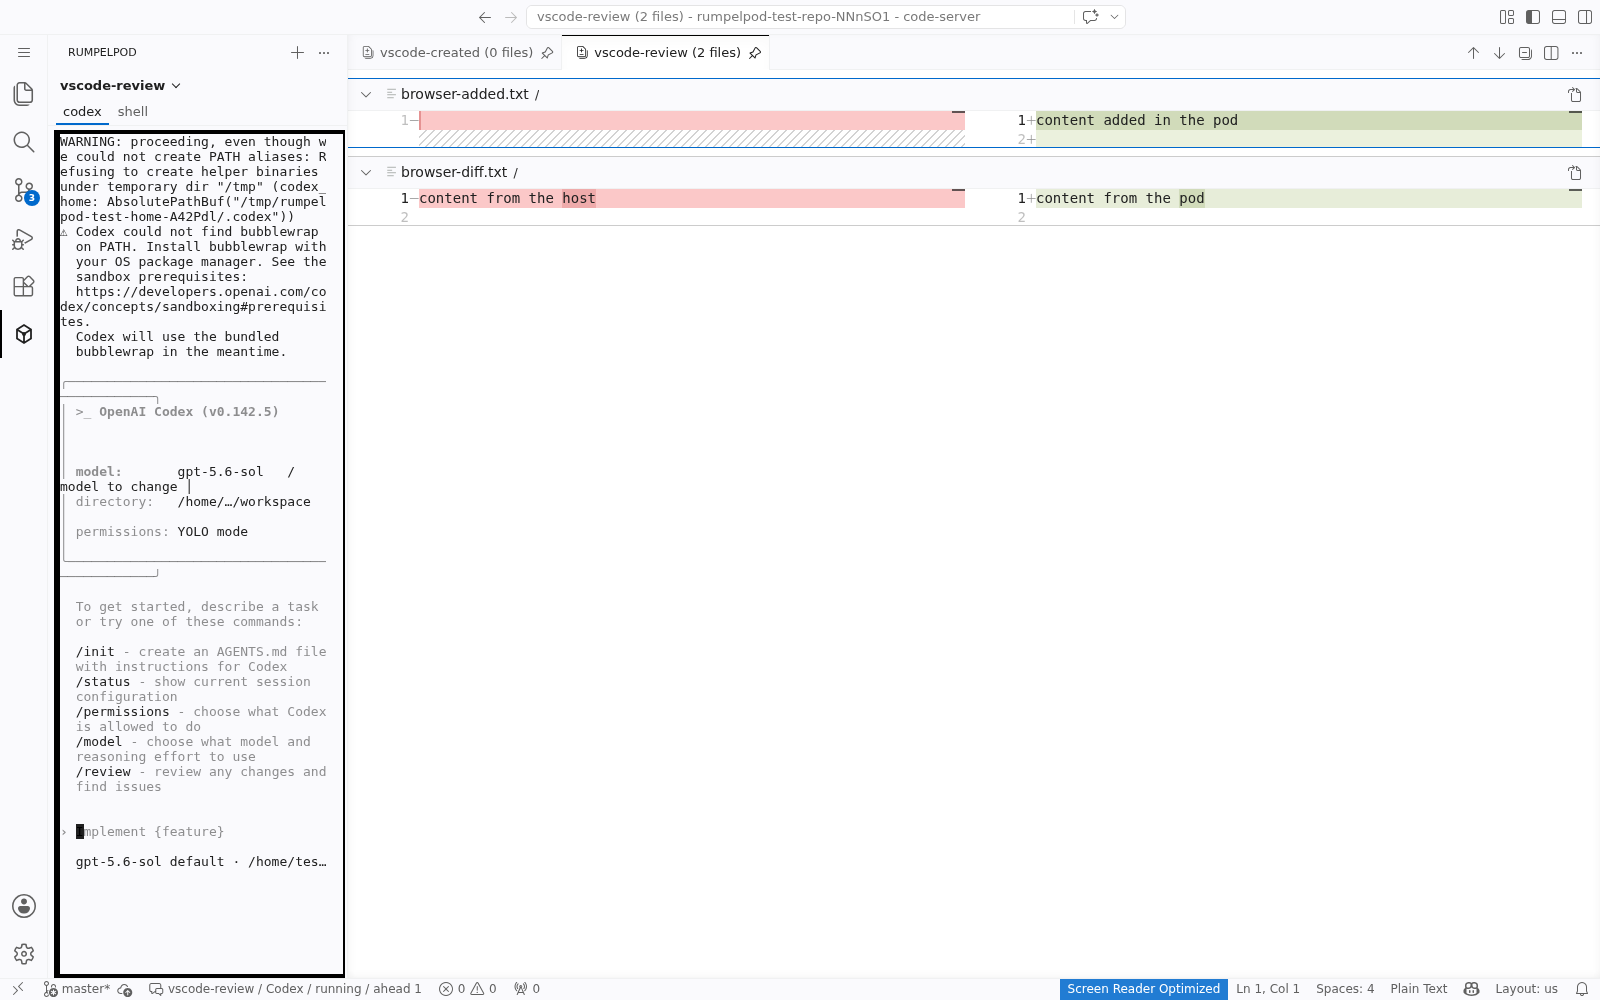
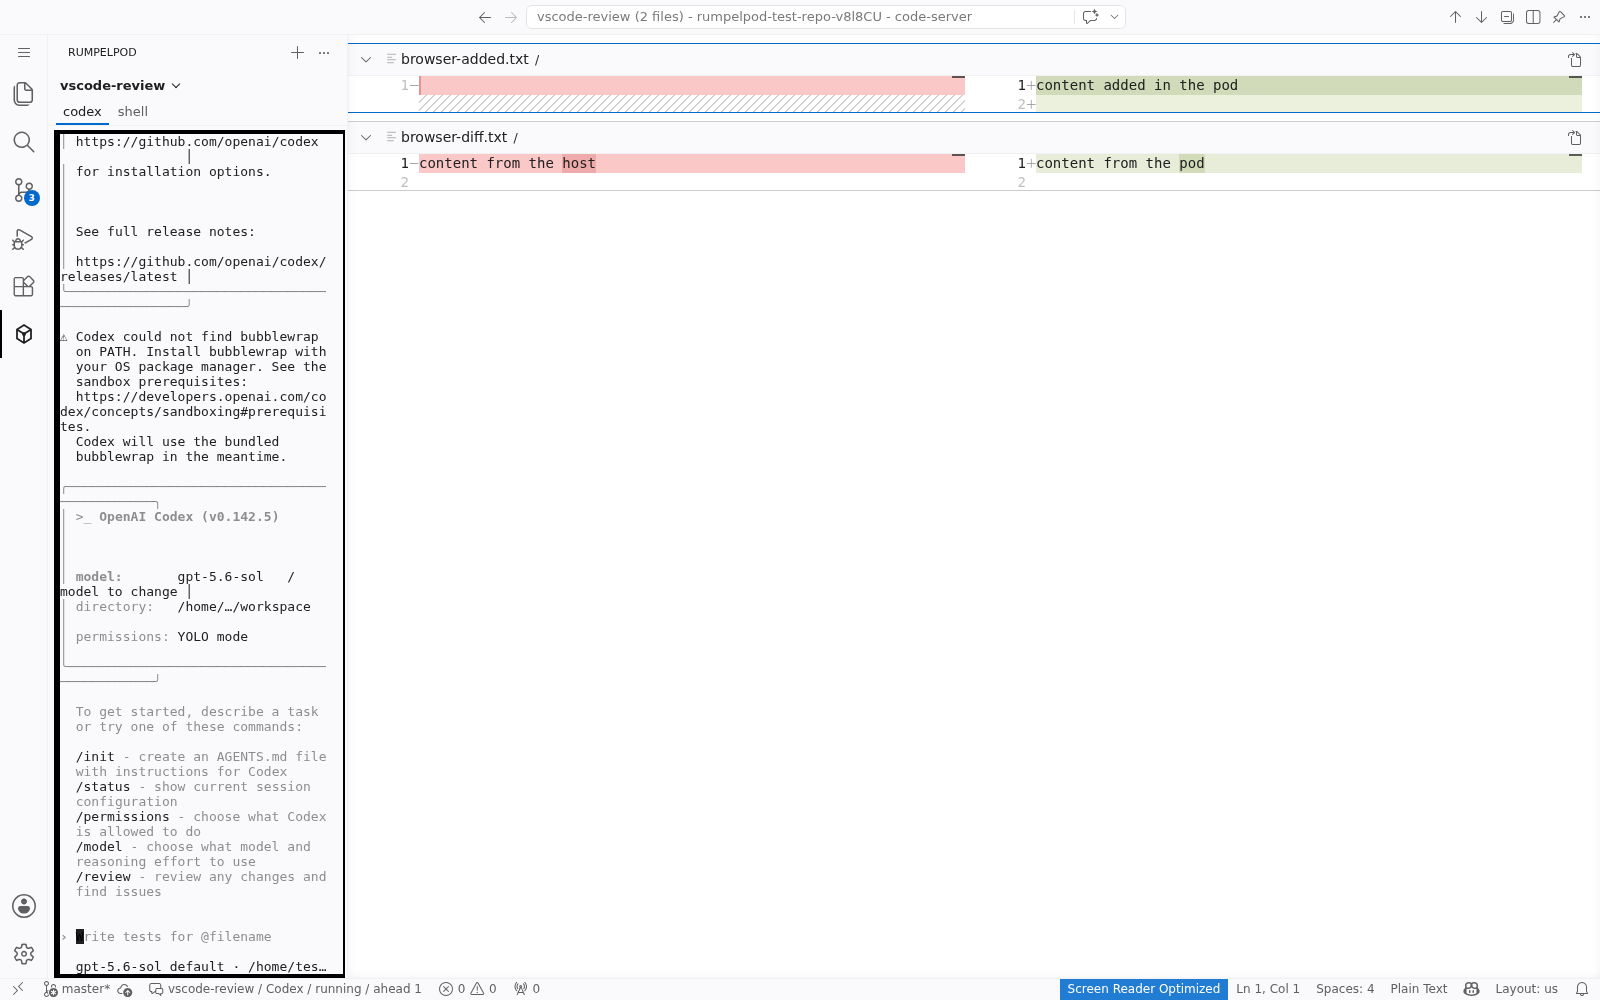
Hide the redundant review tab strip

diff --git a/vscode/README.md b/vscode/README.md
@@ -15,7 +15,10 @@ its overflow menu. The pod picker also has a `+` button.
 Selecting a pod attaches the sidebar terminal to its configured agent and
 opens every changed file on the right in one vertically stacked review. The
 review is pinned, and the extension restores it if an explicit pinned-editor
-close removes it. Pods without changed files still open a native empty review
+close removes it. The extension hides VS Code's editor tab strip by default so
+the single review does not waste a row on its title. Set
+`workbench.editor.showTabs` explicitly to `single` or `multiple` to override
+that default. Pods without changed files still open a native empty review
 surface instead of leaving the previous editor visible. Agent assignments and
 the last active pod are saved across browser reloads.
 
